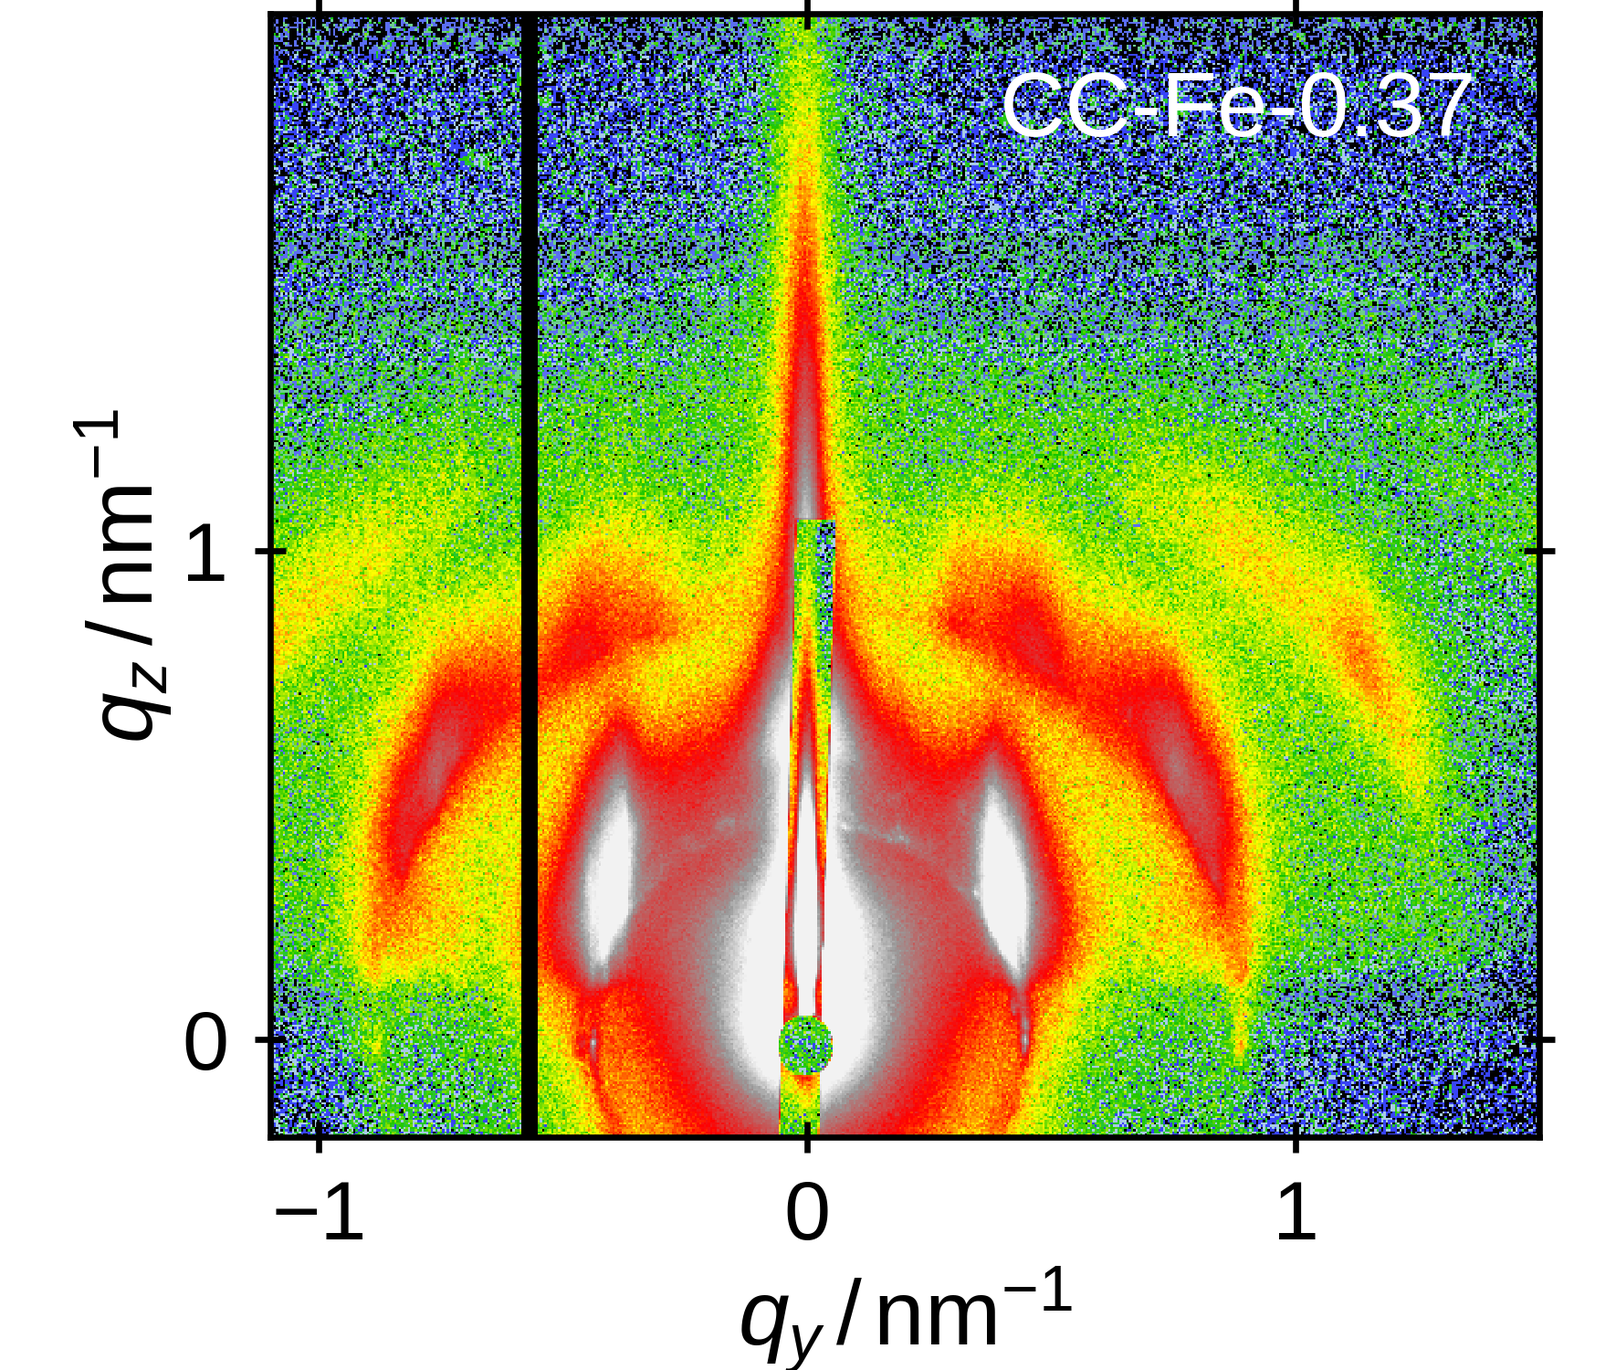
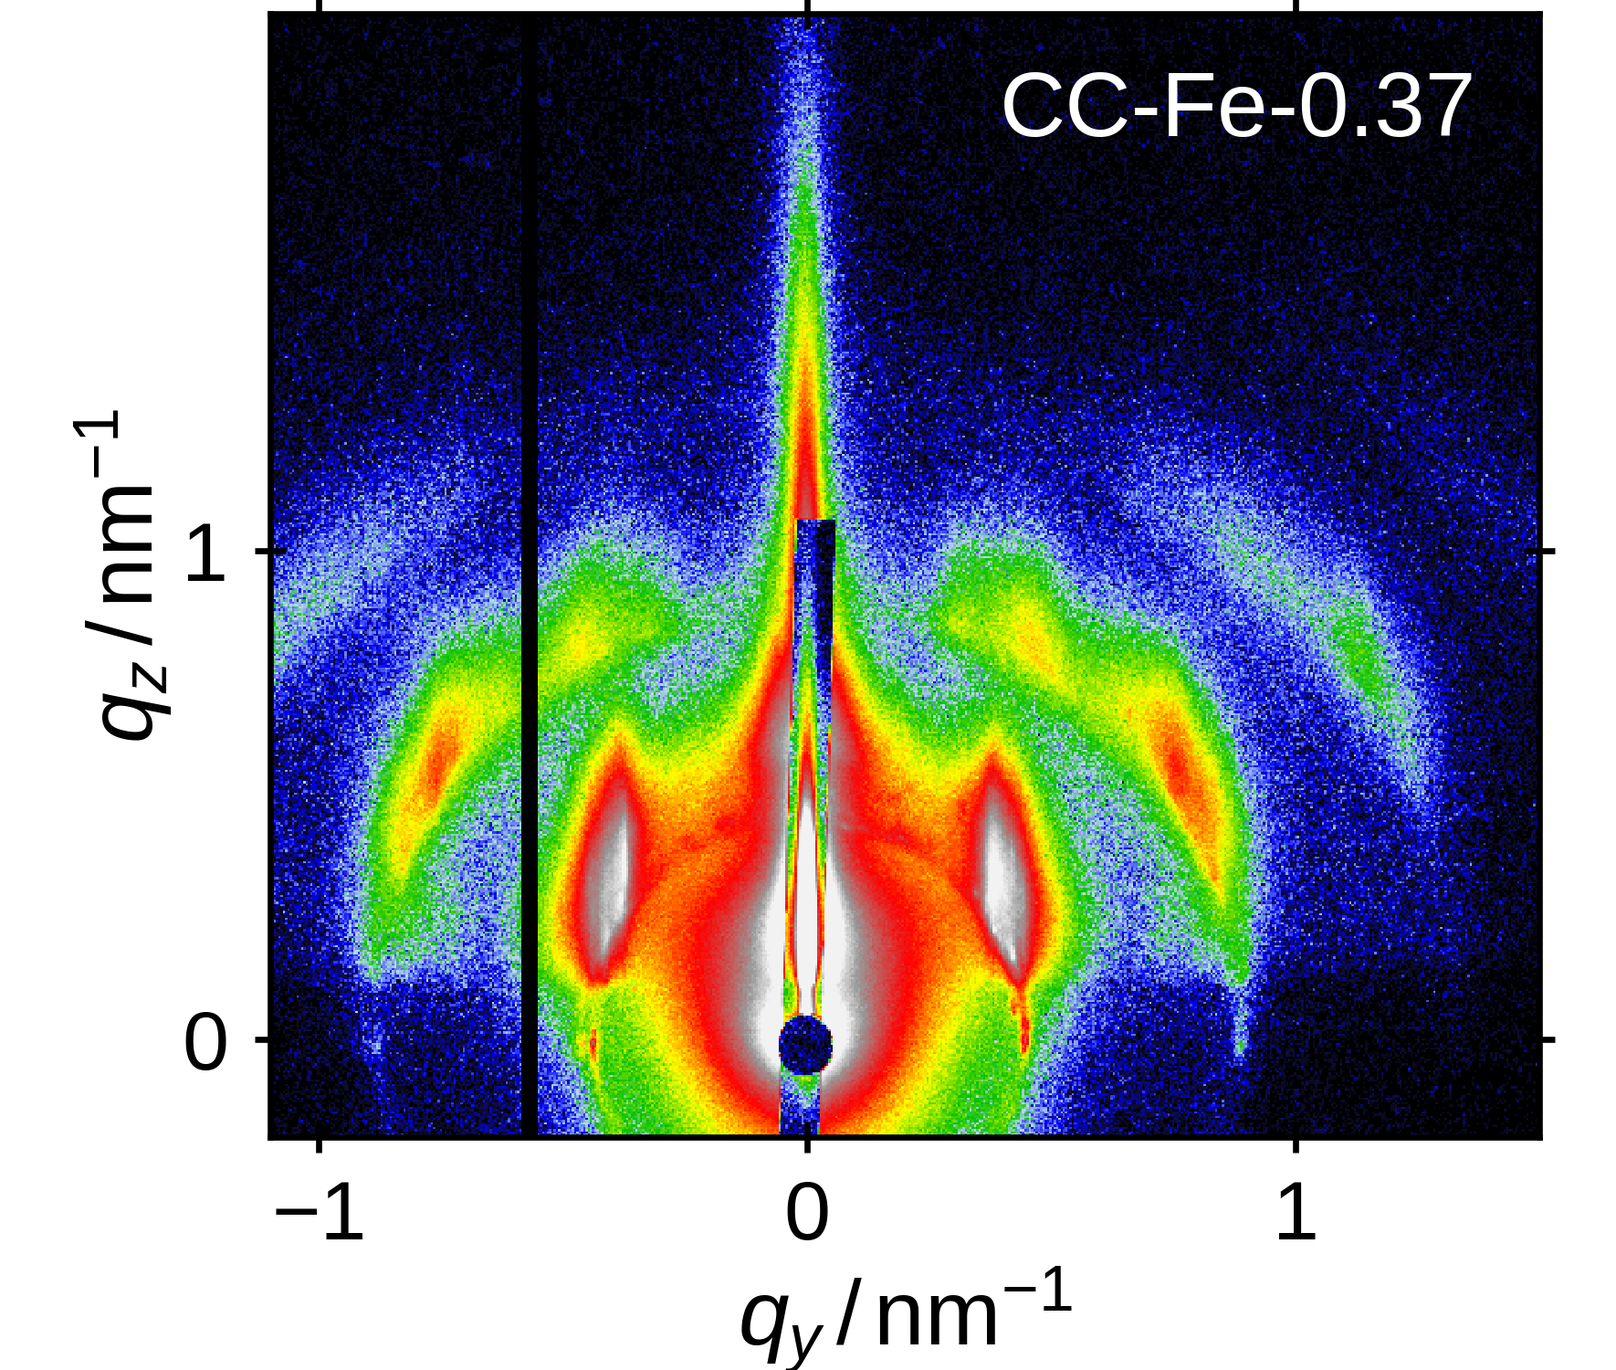
Updated CC GISAXS, start on XRR

diff --git a/chapters/colloidalCrystals/colloidalCrystals/gisaxs/gisaxs.tex b/chapters/colloidalCrystals/colloidalCrystals/gisaxs/gisaxs.tex
@@ -6,56 +6,55 @@
     \centering
     \includegraphics{colloidalCrystals_GISAXS_SVcbar}
     \includegraphics{colloidalCrystals_GISAXS_CC-Fe-0_37_lowerAngle}
-    \includegraphics{colloidalCrystals_GISAXS_cut_CC-Fe-0_37}
-    \caption{\label{fig:colloidalCrystals:layers:gisaxs}GISAXS data of CC-Fe-0.37 measured under an incident angle of $0.155 ^\circ$ (left) and $0.205 ^\circ$ (right). Additionally marked are the integrated areas for the cuts shown in \reffig{fig:colloidalCrystals:layers:gisaxsCuts}.}
+    \includegraphics{colloidalCrystals_GISAXS_CC-Fe-0_37_withPeaks}
+    \caption{\label{fig:colloidalCrystals:layers:gisaxs}GISAXS data of CC-Fe-0.37 measured under an incident angle of $0.155 ^\circ$ (left) and $0.205 ^\circ$ (right). Additionally marked in the right plot are the calculated reflection positions for an orthorhombic unit cell with $a \eq 16.6 \unit{nm}$, $b \eq 33.5 \unit{nm}$ and $c \eq 55.0 \unit{nm}$ and the in the text discussed selection rules.}
   \end{figure}
-
-  \begin{figure}[tb]
-    \centering
-    \includegraphics{colloidalCrystals_GISAXS_cut_horizontal_CC-Fe-0_37}
-    \includegraphics{colloidalCrystals_GISAXS_cut_vertical_CC-Fe-0_37}
-    \caption{\label{fig:colloidalCrystals:layers:gisaxsCuts}Horizontal (left) and vertical (right) cuts in the GISAXS data of CC-Fe-0.37 shown in \reffig{fig:colloidalCrystals:layers:gisaxs}. For each line the data in a range of $\pm 0.01 \unit{nm^{-1}}$ around the given scattering vector is integrated.}
-  \end{figure}
-
-
-  % By suggestions of the cross-sectional SEM micrographs and following the structure evaluation of iron oxide mesocrystals in \cite{Wetterskog_2016_Tunin}, a body-centered tetragonal (bct) unit cell is used to index the observed peak positions.
-  % Analogue to \cite{Wetterskog_2016_Tunin}, the tetragonal axes of the bct unit cell are set to a ratio of $c/a \eq \sqrt{3}$, and the indexing is performed with a [101]-orientation of the unit cell, which in a orthogonal lattice system has a rectangular unit cell with $b \eq 2a$ and $c \eq \sqrt{12} a$.
 
   To determine the superstructure of the nanocubes in the colloidal crystal, grazing-incidence small X-ray scattering is performed on the selected sample CC-Fe-0.37.
   The obtained detector images for the two incident angles $\alpha_i \eq 0.155^\circ$ and $\alpha_i \eq 0.205^\circ$ is shown in \reffig{fig:colloidalCrystals:layers:gisaxs}.
-  The data shows the emergence of multiple broad peaks on top of additionally  weakly visible form factor rings.
+  The data shows the emergence of multiple broad reflections on top of additionally weakly visible form factor rings.
 
-  The broadness of the peaks and the elongation of the peak along $q_z$ alludes to the relatively thin layer structure of only few unit cells for the vertical direction in CC-Fe-0.37.
-  Also the visibility of form factor rings can be interpret as a large fraction of nanocubes being randomly distributed.
+  The extended width of the reflections and the elongation of the reflection along $q_z$ indicates to the relatively thin layer structure of only few unit cells for the vertical direction in CC-Fe-0.37.
+  Also the visibility of rings can be interpret that the nanocubes are measured in varied rotational orientation in the sample.
 
-  By performing multiple cuts, marked in the detector image and shown in \reffig{fig:colloidalCrystals:layers:gisaxsCuts}, the peak coordinates are determined.
-  The peaks are indexed by a $bct$ unit cell with [101]-orientation.
-  Setting $a \eq 16.4 \unit{nm}$ and $b \eq 2a$, the $q_y$ positions are identified to be indexed by $(10l)$, $(11l)$, $(20l)$, $(22l)$ and $(30l)$.
-  Setting further $c \eq \sqrt{12} a$, visible peaks are identified for $l\eq 3,\, 8$ in the $(10l)$, $(11l)$ series, $l \eq 5, \, 10$ for $(20l)$, $l \eq 3,\, 9$ for $(22l)$ and $l\eq 10$ for $(30l)$.
+  The reflection positions are estimated manually from the GISAXS measured at $\alpha_i \eq 0.205 ^\circ$ and tabulated in \reftab{tab:colloidalCrystals:gisaxs:reflections}.
+  Using an orthorhombic unit cell, the reflections are indexed, where with $a \eq 16.6 \unit{nm}$, $b \eq 33.5 \unit{nm}$ the $q_y$ positions of the reflections is closely reproduced for most points, from which the series (02l), (11l), (13l), (20l), (22l) and (06l) are determined.
+  By variation of $c$, a value of $c \eq 55.0 \unit{nm}$ is determined to reproduce most $q_z$ positions, where for (02l), (22l) and (06l) the extinction rules $l \eq 4n + 2$, for (11l) and (13l) $l \eq 2n + 1$ and for (20l) $l \eq 4n$ are observed.
 
   \begin{table}[!htbp]
     \centering
-    \caption{\label{tab:colloidalCrystals:gisaxs:peaks}Determined peak positions from \reffig{fig:colloidalCrystals:layers:gisaxs} and their associated index in a $bct$ unit cell with [101]-orientation and lattice constants of $a \eq 16.4 \unit{nm}$, $b \eq 2a$ and $c \eq \sqrt{12}a$.}
-    \begin{tabular}{ c | c | l }
-      $q_y\,/ \unit{nm^{-1}}$ & $q_z\, / \unit{nm^{-1}}$ & index \\
+    \caption{\label{tab:colloidalCrystals:gisaxs:reflections}Determined reflection positions from \reffig{fig:colloidalCrystals:layers:gisaxs}, the closest index (hkl) in an orthorhombic unit cell with lattice constants of $a \eq 16.6 \unit{nm}$, $b \eq 33.5 \unit{nm}$, $c \eq 55.0 \unit{nm}$ and the thereby calculated theoretical position $q^{hkl}_y$ and $q^{hkl}_z$. The $\pm$ sign on the index indicates the positive or negative sign in \refeq{eq:colloidalCrystals:layerChar:gisaxs:reflexPositidon}.}
+    \begin{tabular}{ c | c | l | c | c}
+      $q_y\,/ \unit{nm^{-1}}$ & $q_z\, / \unit{nm^{-1}}$ & (hkl) & $q^{hkl}_y\,/ \unit{nm^{-1}}$ & $q^{hkl}_z\,/ \unit{nm^{-1}}$\\
       \hline
-      $0.38$      & $0.35$  & (103)\\
-      $0.38$      & $0.85$  & (108)\\
-      $0.43$      & $0.35$  & (113)\\
-      $0.43$      & $0.85$  & (118)\\
-      $0.77$      & $0.55$  & (205)\\
-      $0.77$      & $1.05$  & (2010)\\
-      $0.86$      & $0.46$  & (223)\\
-      $0.86$      & $1.05$  & (229)\\
-      $1.16$      & $0.76$  & (3010)\\
+      $0.38(1)$ & $0.33(3)$ & $(022)^{-}$ & $0.38$ & $0.35$\\
+      $0.30(1)$ & $0.85(1)$ & $(026)^{-}$ & $0.38$ & $0.76$\\
+      $0.42(1)$ & $0.18(2)$ & $(111)^{-}$ & $0.42$ & $0.30$\\
+      $0.46(1)$ & $0.80(1)$ & $(115)^{+}$ & $0.42$ & $0.86$\\
+      $0.65(1)$ & $0.67(1)$ & $(135)^{-}$ & $0.68$ & $0.65$\\
+      $0.76(2)$ & $0.55(2)$ & $(204)^{-}$ & $0.76$ & $0.54$\\
+      $0.83(1)$ & $0.40(2)$ & $(222)^{-}$ & $0.84$ & $0.35$\\
+      $0.86(3)$ & $1.00(3)$ & $(226)^{+}$ & $0.84$ & $0.97$\\
+      $1.13(2)$ & $0.80(2)$ & $(066)^{-}$ & $1.13$ & $0.76$\\
       \hline
     \end{tabular}
   \end{table}
 
-  Comparing the results to the mesocrystalline structure determined in literature \cite{Wetterskog_2016_Tunin} from drop casted iron oxide nanocubes with a similar size, to some degree the results are reproduced in this discussion.
-  It's remarkable that the same $bct$ structure as in the study from drop casted nanoparticles is observed.
-  With the only difference between the two methods being that one produces large towers of ordered nanocubes, and the other a connected layer.
-  In the literature study, magnetic fields are further used during the drying process to manipulate the structure formation.
-  Even though this should be an interesting case study also for this system, this is beyond the scope of this work and left for future studies.
+  Inspecting the determined lattice constants, it is visible that $b/a \approx 2$ and $c/a \approx \sqrt{11}$.
+  This can be compared to the structure evaluation of iron oxide mesocrystals in \cite{Wetterskog_2016_Tunin}, where a body-centered tetragonal $(bct)$ unit cell is used to index the observed reflection positions of the mesocrystals.
+  In the study \cite{Wetterskog_2016_Tunin}, two orientations are observed, one with the [100] direction of the bct unit cell parallel to the substrate normal and one with the [101] direction.
+  For coherent grain boundaries of the two growth directions a ratio of $c/a \eq \sqrt{3}$ in a tetragonal unit cell ($a \eq b$) is derived.
+  The [101] growth direction is described with an corresponding orthorhombic unit cell, which has $b \eq 2 a$ and $c \eq \sqrt{12} a$.
+  This is close to the ratios observed in the determined orthorhombic unit cell for the colloidal crystals.
+  The $c$ constant is slightly smaller with $c \approx \sqrt{11} a$, which indicates that not a perfect [101] orientation is observed.
+  This is also in agreement with SEM in \refsec{sec:colloidalCrystals:layers:sem}, where for CC-Fe-0.25 a tilt angle of $\approx 41(1) ^\circ$ is observed.
+  For a [101] $bct$ structure with $c/a \eq \sqrt{12}$ and $b/a \eq 2$, an angle of $\arctan(\sqrt{12}/2) \eq 60 ^\circ$ or perpendicular to that $30^\circ$ would however be expected.
 
+  The mesocrystal study by Wetterskog \etal \cite{Wetterskog_2016_Tunin} furthermore discusses the influence of the nanoparticle size.
+  In the study, nanoparticles with a similar size as the discussed nanocubes, which have an edge length of $12.6(8) \unit{nm}$ and a superball exponent of $1.45$, show a preference for the [101] growth direction.
+  This observation is in a close agreement with the observation made for the nanocubes in this colloidal crystal study, which have a size of $12.26(4) \unit{nm}$ and a superball exponent of $2.15(7)$, as determined from SAXS in \refsec{sec:colloidalCrystals:nanoparticle:sas}.
+
+  According to the study, smaller nanocubes with a size of $9.6(4) \unit{nm}$ and a superball exponent of $1.9$ prefer the [001] growth direction instead for the $bct$ structure, and for larger nanocubes with a size of $13.6(8) \unit{nm}$ and a superball exponent of $1.85$ a transition to a simple cubic structure can be observed.
+  Due to the strong parallels between the same sized nanocubes of the mesocrystal study and this colloidal crystal study, it might therefore be interesting in a future study to determine the effect of the nanocube size on the colloidal growth.
+  In the mesocrystal study, magnetic fields are further used during the drying process to manipulate the structure formation, which has also not been attempted within this thesis and might be of interest in a future study.
 \end{document}

diff --git a/chapters/colloidalCrystals/colloidalCrystals/xrr/xrr.tex b/chapters/colloidalCrystals/colloidalCrystals/xrr/xrr.tex
@@ -6,7 +6,7 @@
     \centering
     \includegraphics{colloidalCrystals_PNR_CC_Fe_0_37_ReflectivityMapXRR}
     \includegraphics{colloidalCrystals_VerticalStructure_Combined_XRR}
-    \caption{\label{fig:colloidalCrystals:xrr}X-ray reflectometry of CC-Fe-0.25, CC-Fe-0.37 and CC-Fe-0.50. Reducing the detector images, a reflectivity map is obtained, shown exemplarily for CC-Fe-0.37 (left). Integrating a box around $\alpha_i - \alpha_o \eq 0 ^\circ$ and subtracting the diffuse scattering from the off-specular region, the specular reflectivity is obtained (right). The reflectivities of the samples are scaled by a factor of ten respectively for distinction.}
+    \caption{\label{fig:colloidalCrystals:xrr}X-ray reflectometry of CC-Fe-0.25, CC-Fe-0.37 and CC-Fe-0.50. Reducing the detector images, a reflectivity map is obtained, shown exemplary for CC-Fe-0.37 (left). Integrating a box around $\alpha_i - \alpha_o \eq 0 ^\circ$ and subtracting the diffuse scattering from the off-specular region, the specular reflectivity is obtained (right). The reflectivities of the samples are scaled by a factor of ten respectively for distinction.}
   \end{figure}
 
   The three samples CC-Fe-0.25, CC-Fe-0.37 and CC-Fe-0.50 have been studied by X-ray reflectometry using the GALAXI instrument.
@@ -14,16 +14,23 @@
   The reflectivity map shows the specular reflectivity line around $\alpha_i - \alpha_o \eq 0 ^\circ$ as region of strong intensity and additionally broad Bragg sheets in the off specular region.
   Slightly visible in the reflectivity map is also the overlap region of the two data sets, which were measured with varied counting time, which is an artifact from the edge region of the respective data sets and cleaned from the integrated reflectivity.
 
-  Qualitatively, the three reflectivities show similar features with a correlation peak near $0.53 \unit{nm^{-1}}$ and $0.87 \unit{nm^{-1}}$.
+  Qualitatively, the three reflectivities show similar features with a correlation peak near $0.53 \unit{nm^{-1}}$, $0.87 \unit{nm^{-1}}$ and $1.23 \unit{nm^{-1}}$.
+  From the period of the correlation peaks a length scale of $L \eq 18.0(5) \unit{nm}$ can be estimated.
   With increasing sample thickness, the plateau of total reflection is bends down in direct comparison from CC-Fe-0.37 to CC-Fe-0.25 and is not visible for the case of CC-Fe-0.50.
   Also with increasing sample thickness, the first peak around $0.53 \unit{nm^{-1}}$ smears out and becomes less well-defined.
 
-  The reduced critical edge can be argumented by the larger thickness of iron oxide nanocubes.
-  The average scattering length density of the iron oxide layer can be lower than that of the silicon substrate and for an increasing thickness it becomes the determining density for the critical reflection condition.
-  Additionally, iron oxide is partially absorbing for X-rays, which becomes apparent from the imaginary part of the scattering length density that is approximately $10 \%$ in magnitude of the real part.
+  The reduced critical edge can be argumented by the larger thickness of iron oxide nanocube layers.
+  The average scattering length density of the iron oxide layer can be lower than that of the silicon substrate ($\approx 20 \cdot 10^{-6} \angstrom^{-2}$, corresponding to $q_c \eq 0.3 \unit{nm^{-1}}$) and for an increasing thickness it becomes the determining density for the critical reflection condition.
+  But even more important, iron oxide partially absorbs X-rays, which becomes apparent from the imaginary part of the scattering length density that is approximately $10 \%$ in magnitude of the real part.
   This leads to the observed rounding effect of the critical edge, where with increasing incident angle close to the critical edge the X-ray photons penetrate deeper into the layer and become partially absorbed.
+  For the case of the complete vanishing of the critical edge for CC-Fe-0.50, it can however not completely excluded that an unknown mistake was performed during the alignment of the sample.
 
   None of the reflectivities show defined Kiessig fringes, which could, however, still be expected from the observed sample thickness seen in SEM micrographs.
   Thus it can be concluded that a larger thickness variation is present in the sample, which would smear out the Kiessig fringes.
+  This makes it additional complicated to determine the thickness from a qualitative discussion of the sample.
+
+  Comparing the obtained vertical length scale from the correlation peaks to the nanocube size of $a \eq 12.26(4) \unit{nm}$ from SAXS in \refsec{sec:colloidalCrystals:nanoparticle:sas}, a ratio of $L/a \approx 1.47$ is observed.
+  
+  In comparison to the $c$ lattice constant observed in GISAXS, a ratio of  $c / L \approx 3$.
 
 \end{document}

diff --git a/chapters/colloidalCrystals/experimentalMethods/layerCharacterization/layerCharacterization.tex b/chapters/colloidalCrystals/experimentalMethods/layerCharacterization/layerCharacterization.tex
@@ -13,7 +13,23 @@
     The sample-to-detector distance was set to $1.73 \unit{m}$ and a total integrated time of $5 \unit{h}$ was measured for each incident angle.
     The measurement time is sub-divided into five parts, where each is measured with a vertically shifted detector position to fill the horizontal gaps between the Pilatus 1M detector sub modules.
 
-    To determine the structure of the colloidal crystal, the detector image obtained at the incident angle of $0.205 ^\circ$ is first evaluated by performing horizontal and vertical cuts through the observed peaks to determine the $q_y$ and $q_z$ positions of the peaks manually.
+    To determine the structure of the colloidal crystal, the detector image obtained at the incident angle of $0.205 ^\circ$, the reflection positions are manually determined from the detector data and a orthorhombic unit cell with $a \neq b \neq c$ and $\alpha \eq \beta \eq \gamma \eq 90 ^\circ$ is determined to index the reflections.
+    The $q^{hkl}_y, \, q^{hkl}_z$ positions of the orthorhombic unit cell are calculated by
+    \begin{align}
+      \begin{split}
+        \label{eq:colloidalCrystals:layerChar:gisaxs:reflexPosition}
+        q^{hkl}_y \eq& 2 \pi \sqrt{\biggl( \frac{h^2}{a^2} + \frac{k^2}{b^2} \biggr)},\\
+        q^{hkl}_z \eq& k_{i,\, z} + \sqrt{k_{c,\, z}^2 + \biggl( 2\pi \frac{l}{c} \pm \sqrt{k_{i,\, z}^2 - k_{c,\, z}^2} \biggr)^2},
+      \end{split}
+    \end{align}
+    where for $q^{hkl}_z$ refraction is additionally accounted by the combination of Snell's and Bragg's laws \cite{Disch_2011_Shape}.
+    The $z$-component of the incident wave vector $k_{i,\, z}$ is calculated from the incident angle and the critical wave vector $k_{c,\, z}$ can be directly read from the $q_z$ position of the sample's X-ray reflectometry measured at the same wavelength by
+    \begin{align}
+      \begin{split}
+        k_{i,\, z} \eq& \frac{2 \pi}{\lambda} \sin(\alpha_i),\\
+        k_{c,\, z} \eq& \frac{1}{2} q_{c,\,z}.
+      \end{split}
+    \end{align}
 
   \paragraphNewLine{X-Ray Reflectometry}
     X-ray reflectometry has been measured on the GALAXI instrument at the \textsc{Forschungszentrum J\"ulich} (\refsec{ch:lss:galaxi}) for CC-Fe-0.25, CC-Fe-0.37 and CC-Fe-0.50.

diff --git a/chapters/colloidalCrystals/nanoparticles/summary/summary.tex b/chapters/colloidalCrystals/nanoparticles/summary/summary.tex
@@ -11,8 +11,8 @@
   By comparison with literature discussions \cite{Wetterskog_2013_Anoma}, it is concluded that the two phases actually represent the discrepancy between the long-range order of the tetrahedral and octahedral sublattice in the spinell phase tetrahedral and octahedral sublattices due to anti-phase boundaries in the nanoparticle from topotaxial oxidation.
 
   Small-angle X-ray and neutron scattering data is furthermore discussed by a superball form factor.
-  Here, a superball edge length of $12.22(5) \unit{nm}$ is observed with a size distribution of $7.2(2) \%$ from SAXS.
-  The superball exponent is obtained as $2.2(1)$, which corresponds to cube with round edges.
+  Here, a superball edge length of $12.26(4) \unit{nm}$ is observed with a size distribution of $7.1(2) \%$ from SAXS.
+  The superball exponent is obtained as $2.15(7)$, which corresponds to cube with round edges.
   From SANS, the data is consistent with the same parameters and a surfactant shell thickness of $1.38(4) \unit{nm}$.
   The surfactant shell thickness is comparable to the order of magnitude observed for similar sized and shaped nanoparticles in this thesis in \refch{ch:monolayers}, as well as with other oleic acid-ligated nanoparticles discussed in literature by small-angle scattering \cite{Disch_2012_Quant}.
   For SANS a w\"ustite core and magnetite shell needs to be used for a fit of the data, whereas for SAXS a single phase superball provides the best fit.

diff --git a/chapters/colloidalCrystals/summary/summary.tex b/chapters/colloidalCrystals/summary/summary.tex
@@ -5,8 +5,8 @@
   The final chapter of this thesis approached a method to prepare three-dimensional long-range ordered layers of nanocubes and discusses the structural and magnetic characterization of three specimen with varied thickness.
 
   For this purpose, iron oxide nanocubes are prepared following a literature known synthesis route from iron oleate and characterized structurally and magnetically.
-  A mean edge length of $12.22(5) \unit{nm}$ and a size distribution of $7.2(2) \%$ are determined from fitting a superball form factor to both SAXS and SANS data.
-  The resulting superball has an exponent of $2.2(1)$, which represents cubes with rounded edges.
+  A mean edge length of $12.26(4) \unit{nm}$ and a size distribution of $7.2(1) \%$ are determined from fitting a superball form factor to both SAXS and SANS data.
+  The resulting superball has an exponent of $2.15(7)$, which represents cubes with rounded edges.
   Furthermore, a core-shell w\"ustite-magnetite structure is observed by both XRD and SAS.
   The thickness of the magnetite shell is strongly varying across the experiments, which were measured with longer time gaps in between and therefore reproduce the on-going oxidation of the nanocubes with time.
   This is then represented in the comparison of the magnetic characterization of VSM and SANSPOL results.

diff --git a/chapters/colloidalCrystals/colloidalCrystals/colloidalCrystals.tex b/chapters/colloidalCrystals/colloidalCrystals/colloidalCrystals.tex
@@ -15,7 +15,7 @@
   \subfile{\thisPath/gisaxs/gisaxs}
     \FloatBarrier
 
-  \subsection{Vertical Structure}
+  \subsection{X-Ray Reflectometry}
   \subfile{\thisPath/xrr/xrr}
     \FloatBarrier
 
